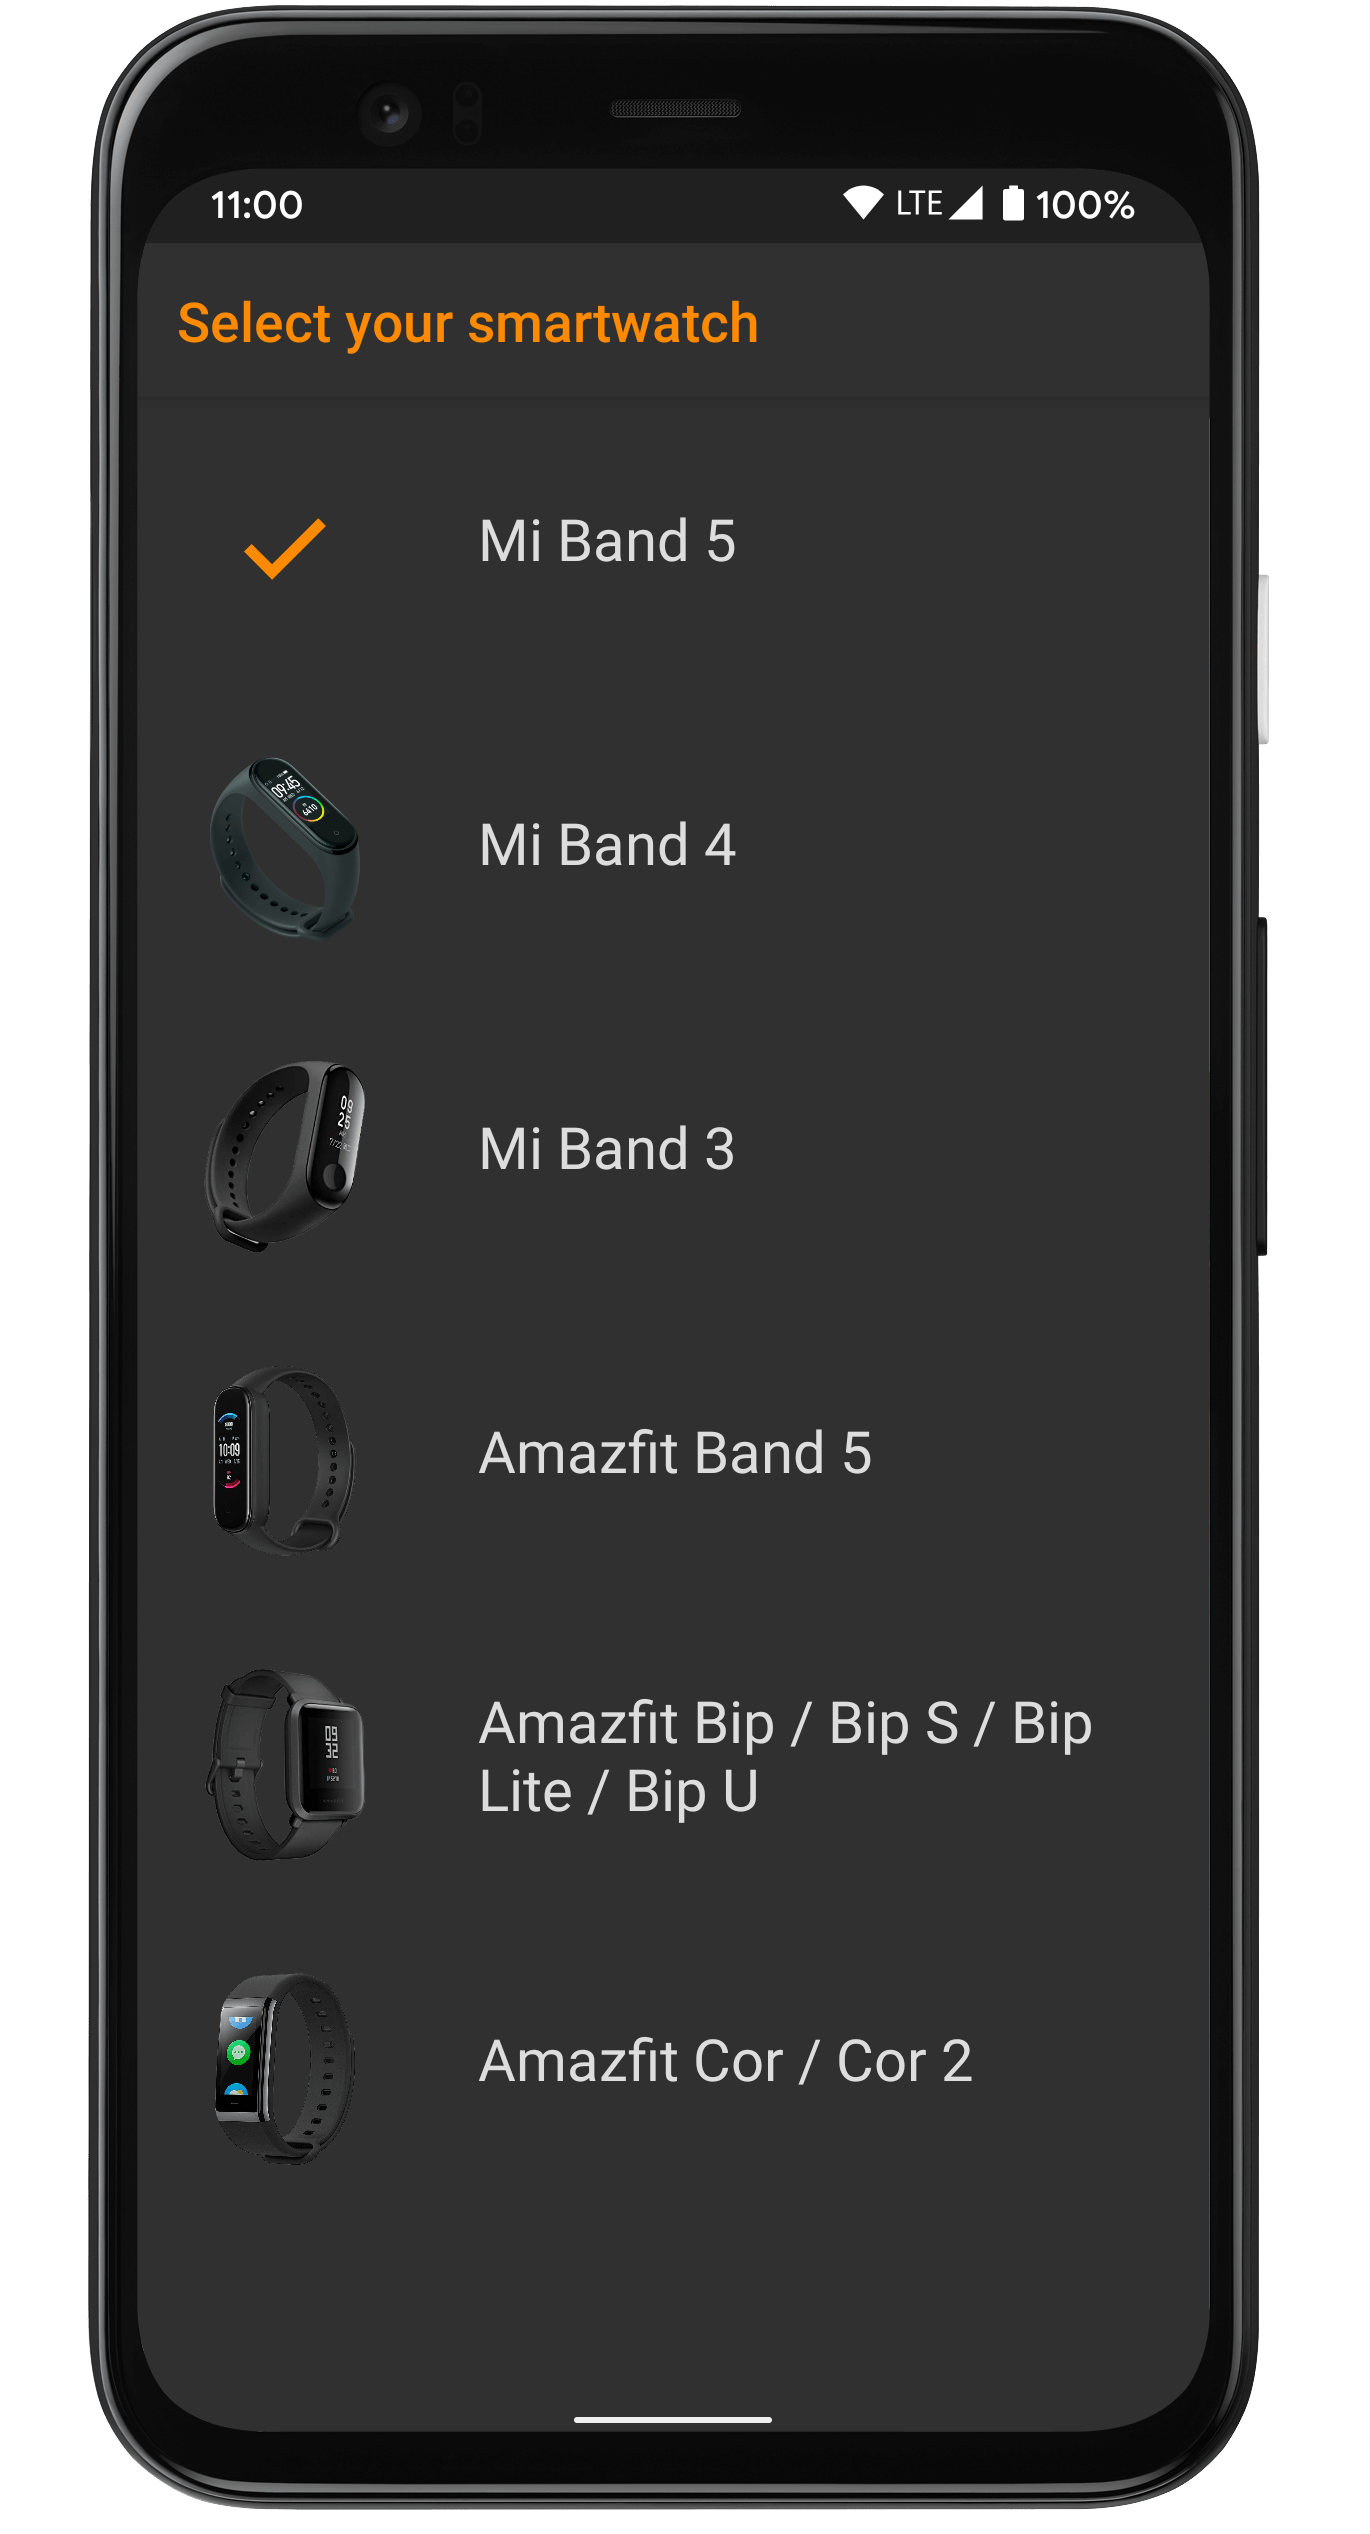
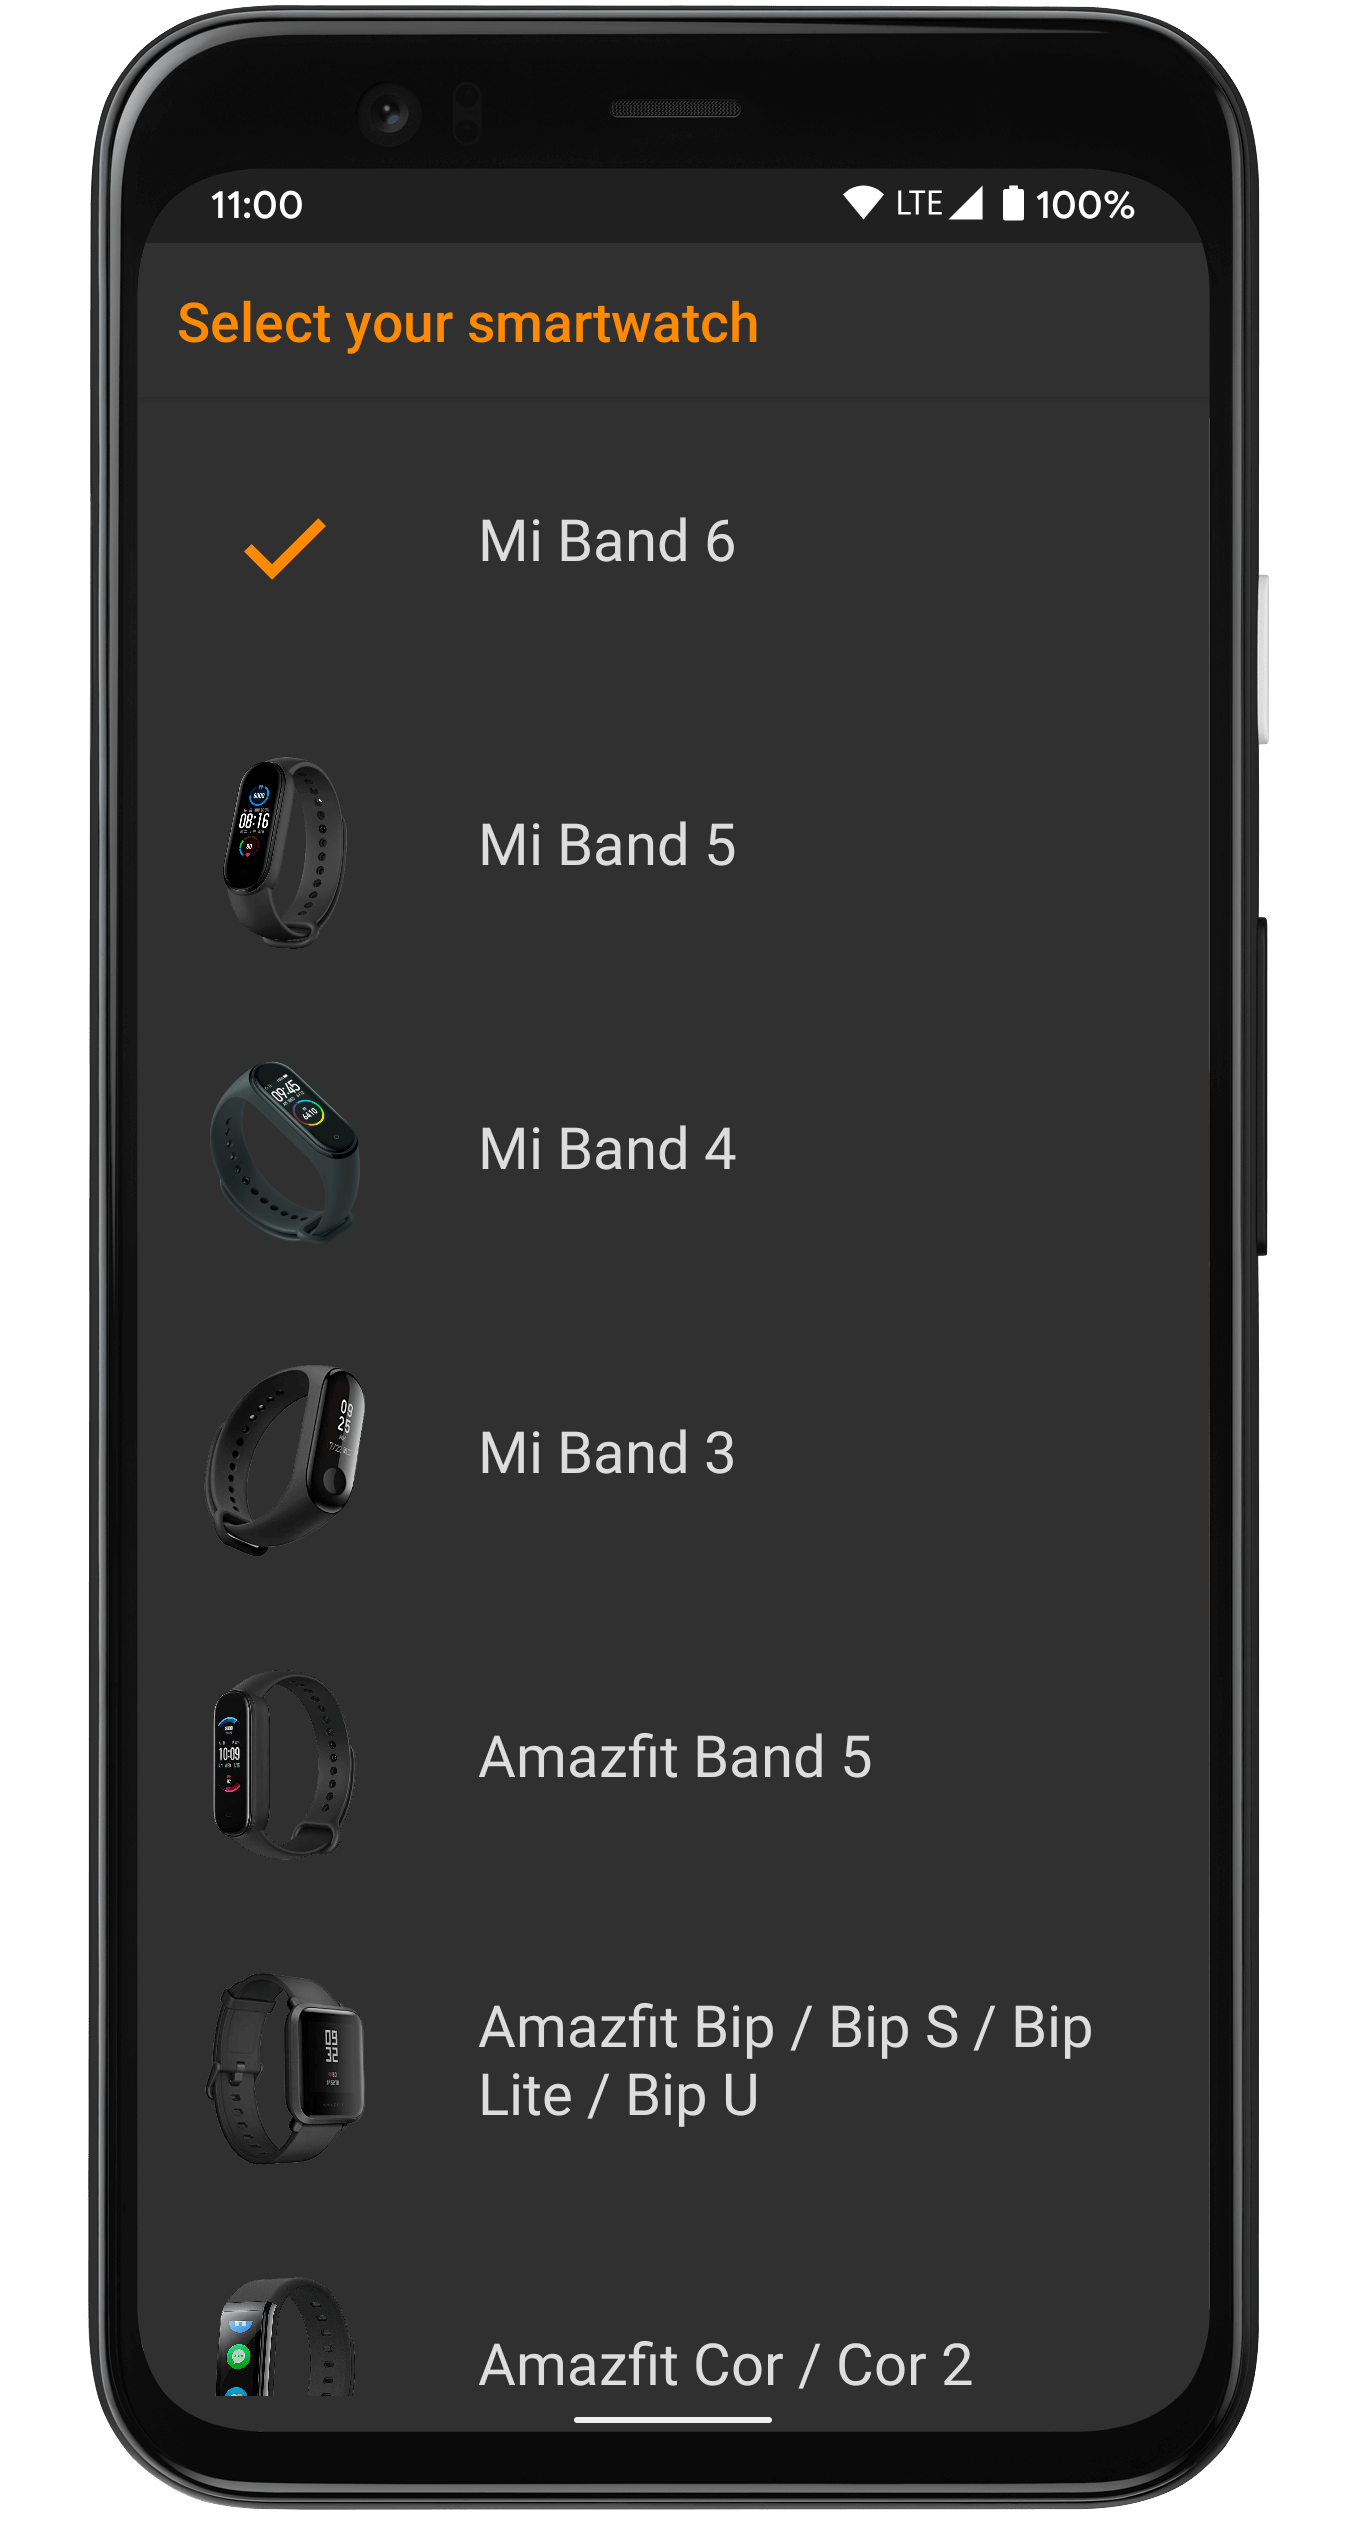
Added Mi Band 6

diff --git a/apps/mibandmaps/index.html b/apps/mibandmaps/index.html
@@ -5,14 +5,14 @@
     <meta name="viewport" content="width=device-width, initial-scale=1, shrink-to-fit=no">
     
     <!-- SEO Meta Tags -->
-    <meta name="description" content="Receive Google Maps directions to your Mi Band 5/4/3, Amazfit Bip or Amazfit Cor">
+    <meta name="description" content="Receive Google Maps directions to your Mi Band 6/5/4/3, Amazfit Bip or Amazfit Cor">
     <meta name="author" content="Francesco Re">
 
     <!-- OG Meta Tags to improve the way the post looks when you share the page on LinkedIn, Facebook, Google+ -->
 	<meta property="og:site_name" content="Francesco Re" /> <!-- website name -->
 	<meta property="og:site" content="https://francescore.dev" /> <!-- website link -->
 	<meta property="og:title" content="Mi Band Maps app"/> <!-- title shown in the actual shared post -->
-	<meta property="og:description" content="Receive Google Maps directions to your Mi Band 5/4/3, Amazfit Bip or Amazfit Cor" /> <!-- description shown in the actual shared post -->
+	<meta property="og:description" content="Receive Google Maps directions to your Mi Band 6/5/4/3, Amazfit Bip or Amazfit Cor" /> <!-- description shown in the actual shared post -->
 	<meta property="og:image" content="https://francescore.dev/apps/mibandmaps/images/video-frame.jpg" /> <!-- image link, make sure it's jpg -->
 	<meta property="og:url" content="https://francescore.dev/apps/mibandmaps" /> <!-- where do you want your post to link to -->
 	<meta property="og:type" content="article" />
@@ -174,16 +174,12 @@
                     <div class="text-container">
                         <h2>Compatible with</h2>
                         <ul>
+                            <li>Mi Band 6</li>
                             <li>Mi Band 5</li>
                             <li>Mi Band 4</li>
                             <li>Mi Band 3</li>
                             <li>Amazfit Band 5</li>
-                            <li>Amazfit Bip</li>
-                            <li>Amazfit Bip Lite</li>
-                            <li>Amazfit Bip S</li>
-                            <li>Amazfit Bip S Lite</li>
-                            <li>Amazfit Bip U</li>
-                            <li>Amazfit Bip U Pro</li>
+                            <li>Amazfit Bip (all models)</li>
                             <li>Amazfit Cor</li>
                             <li>Amazfit Cor 2</li>
                         </ul>
